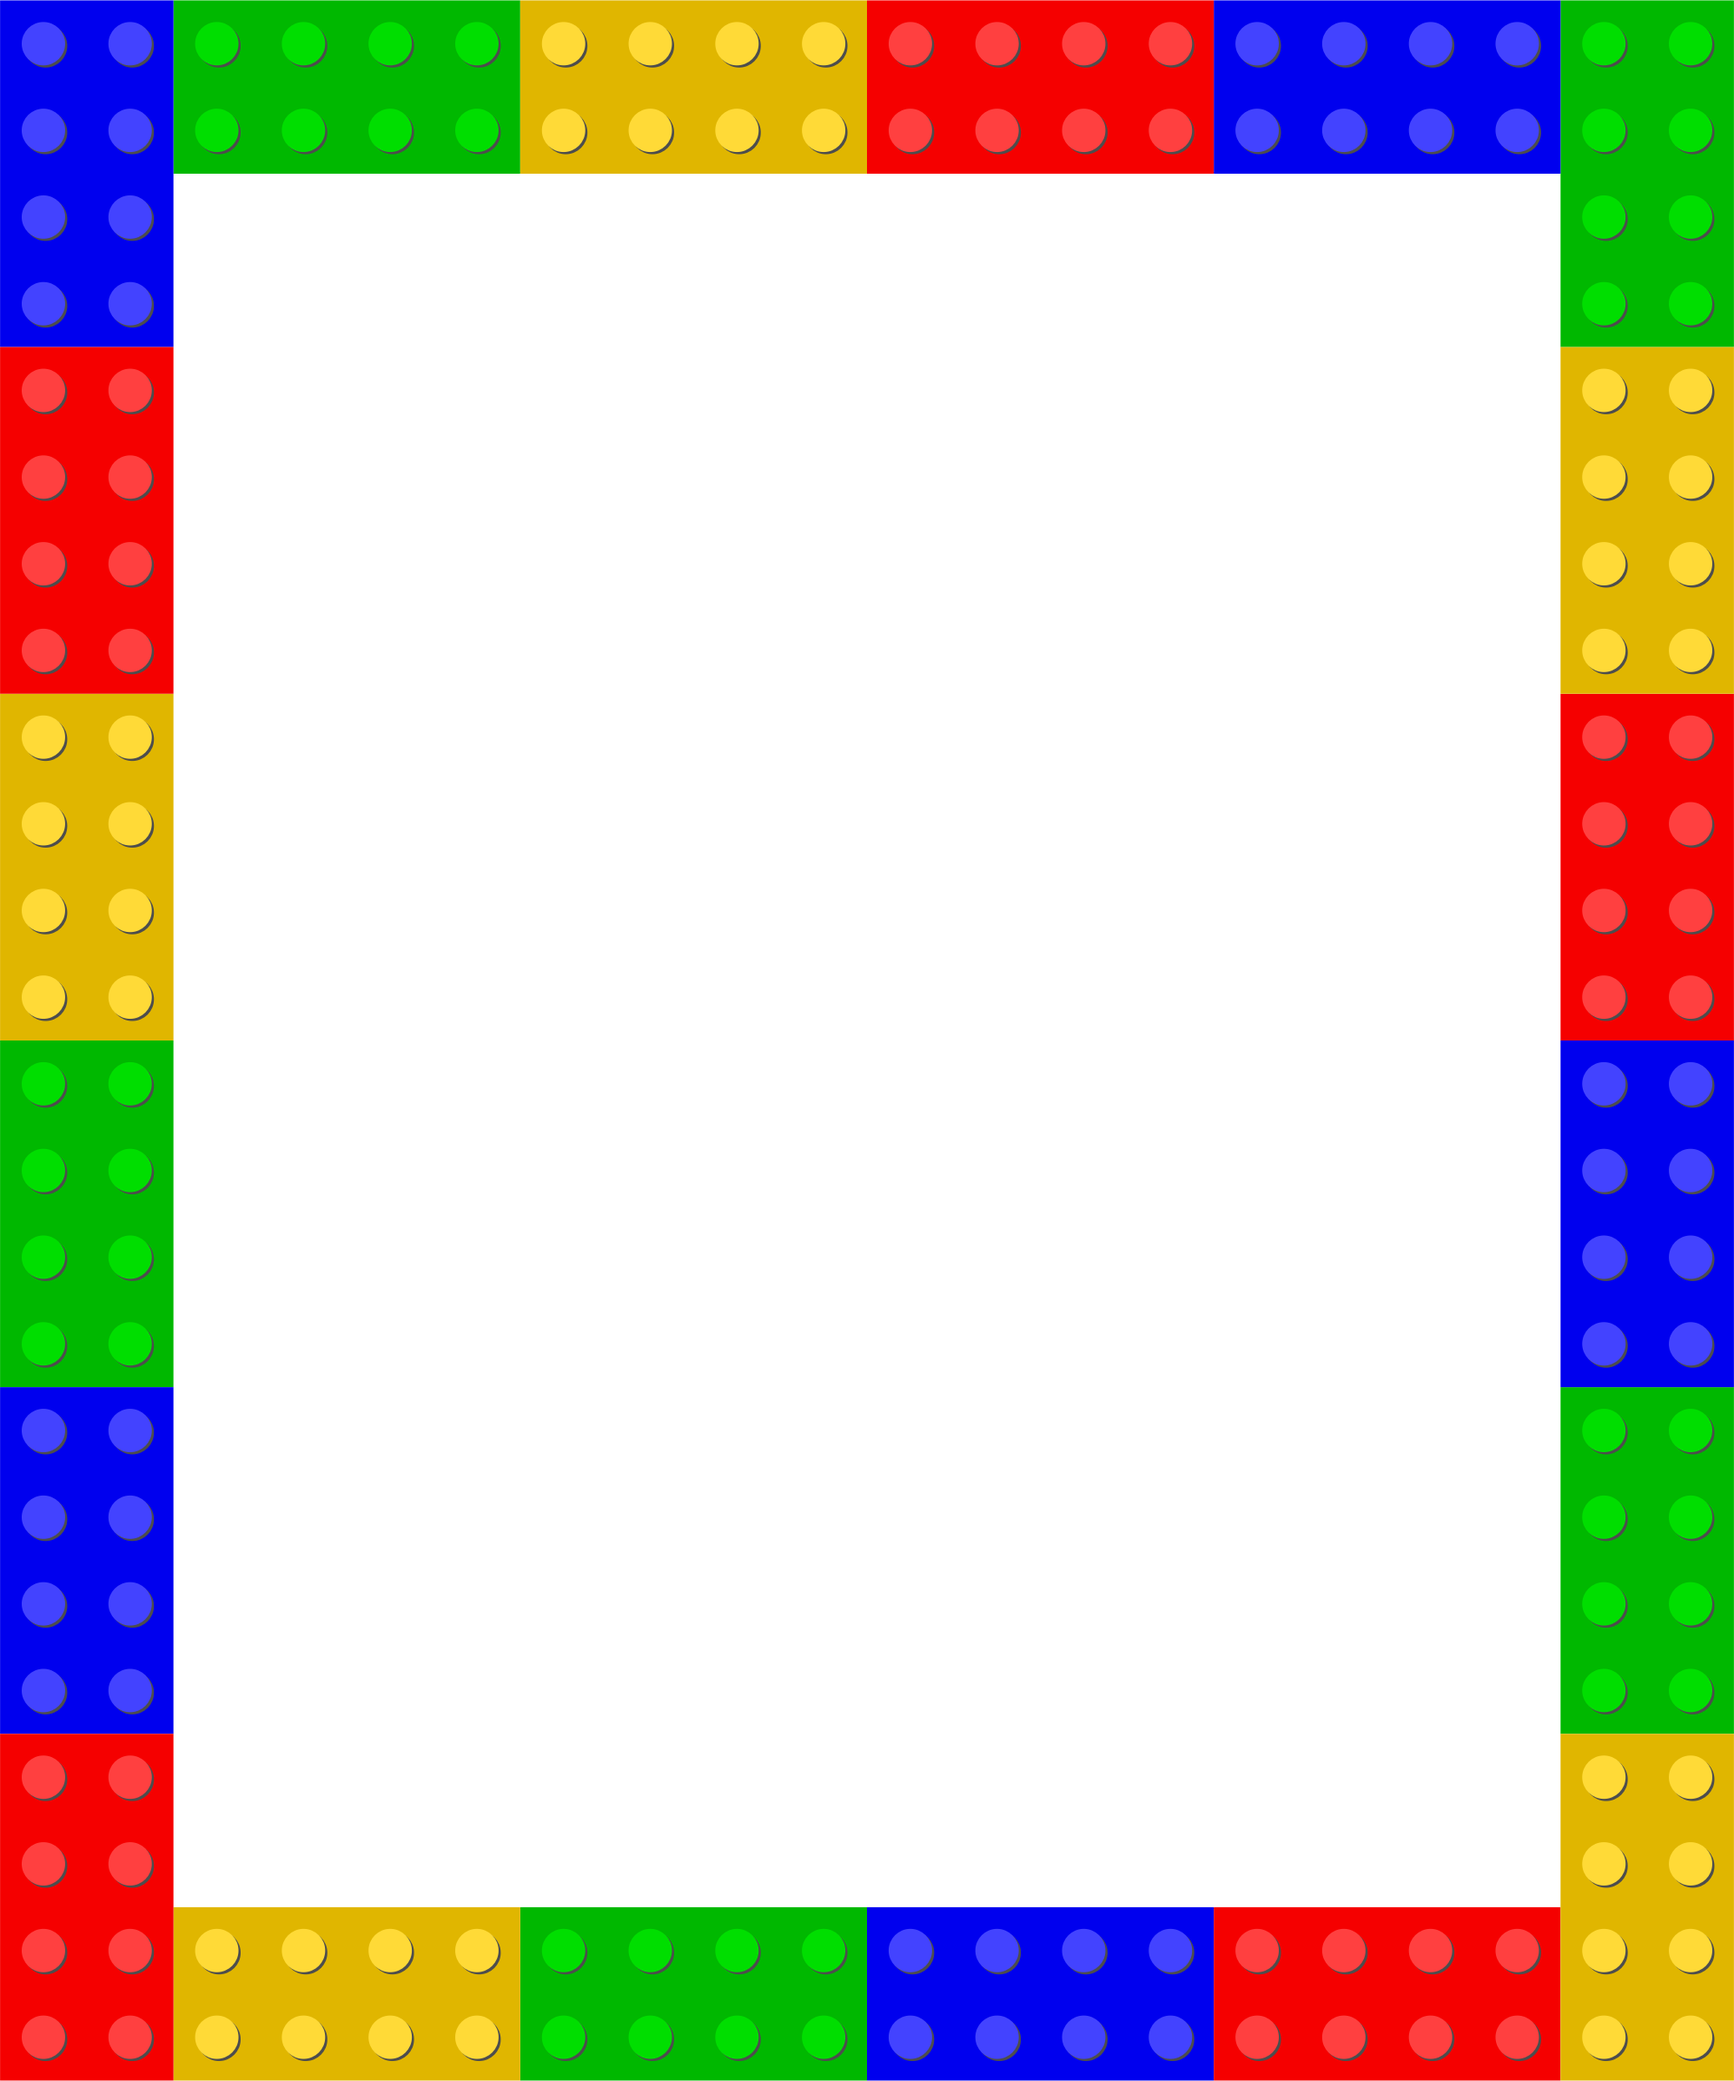
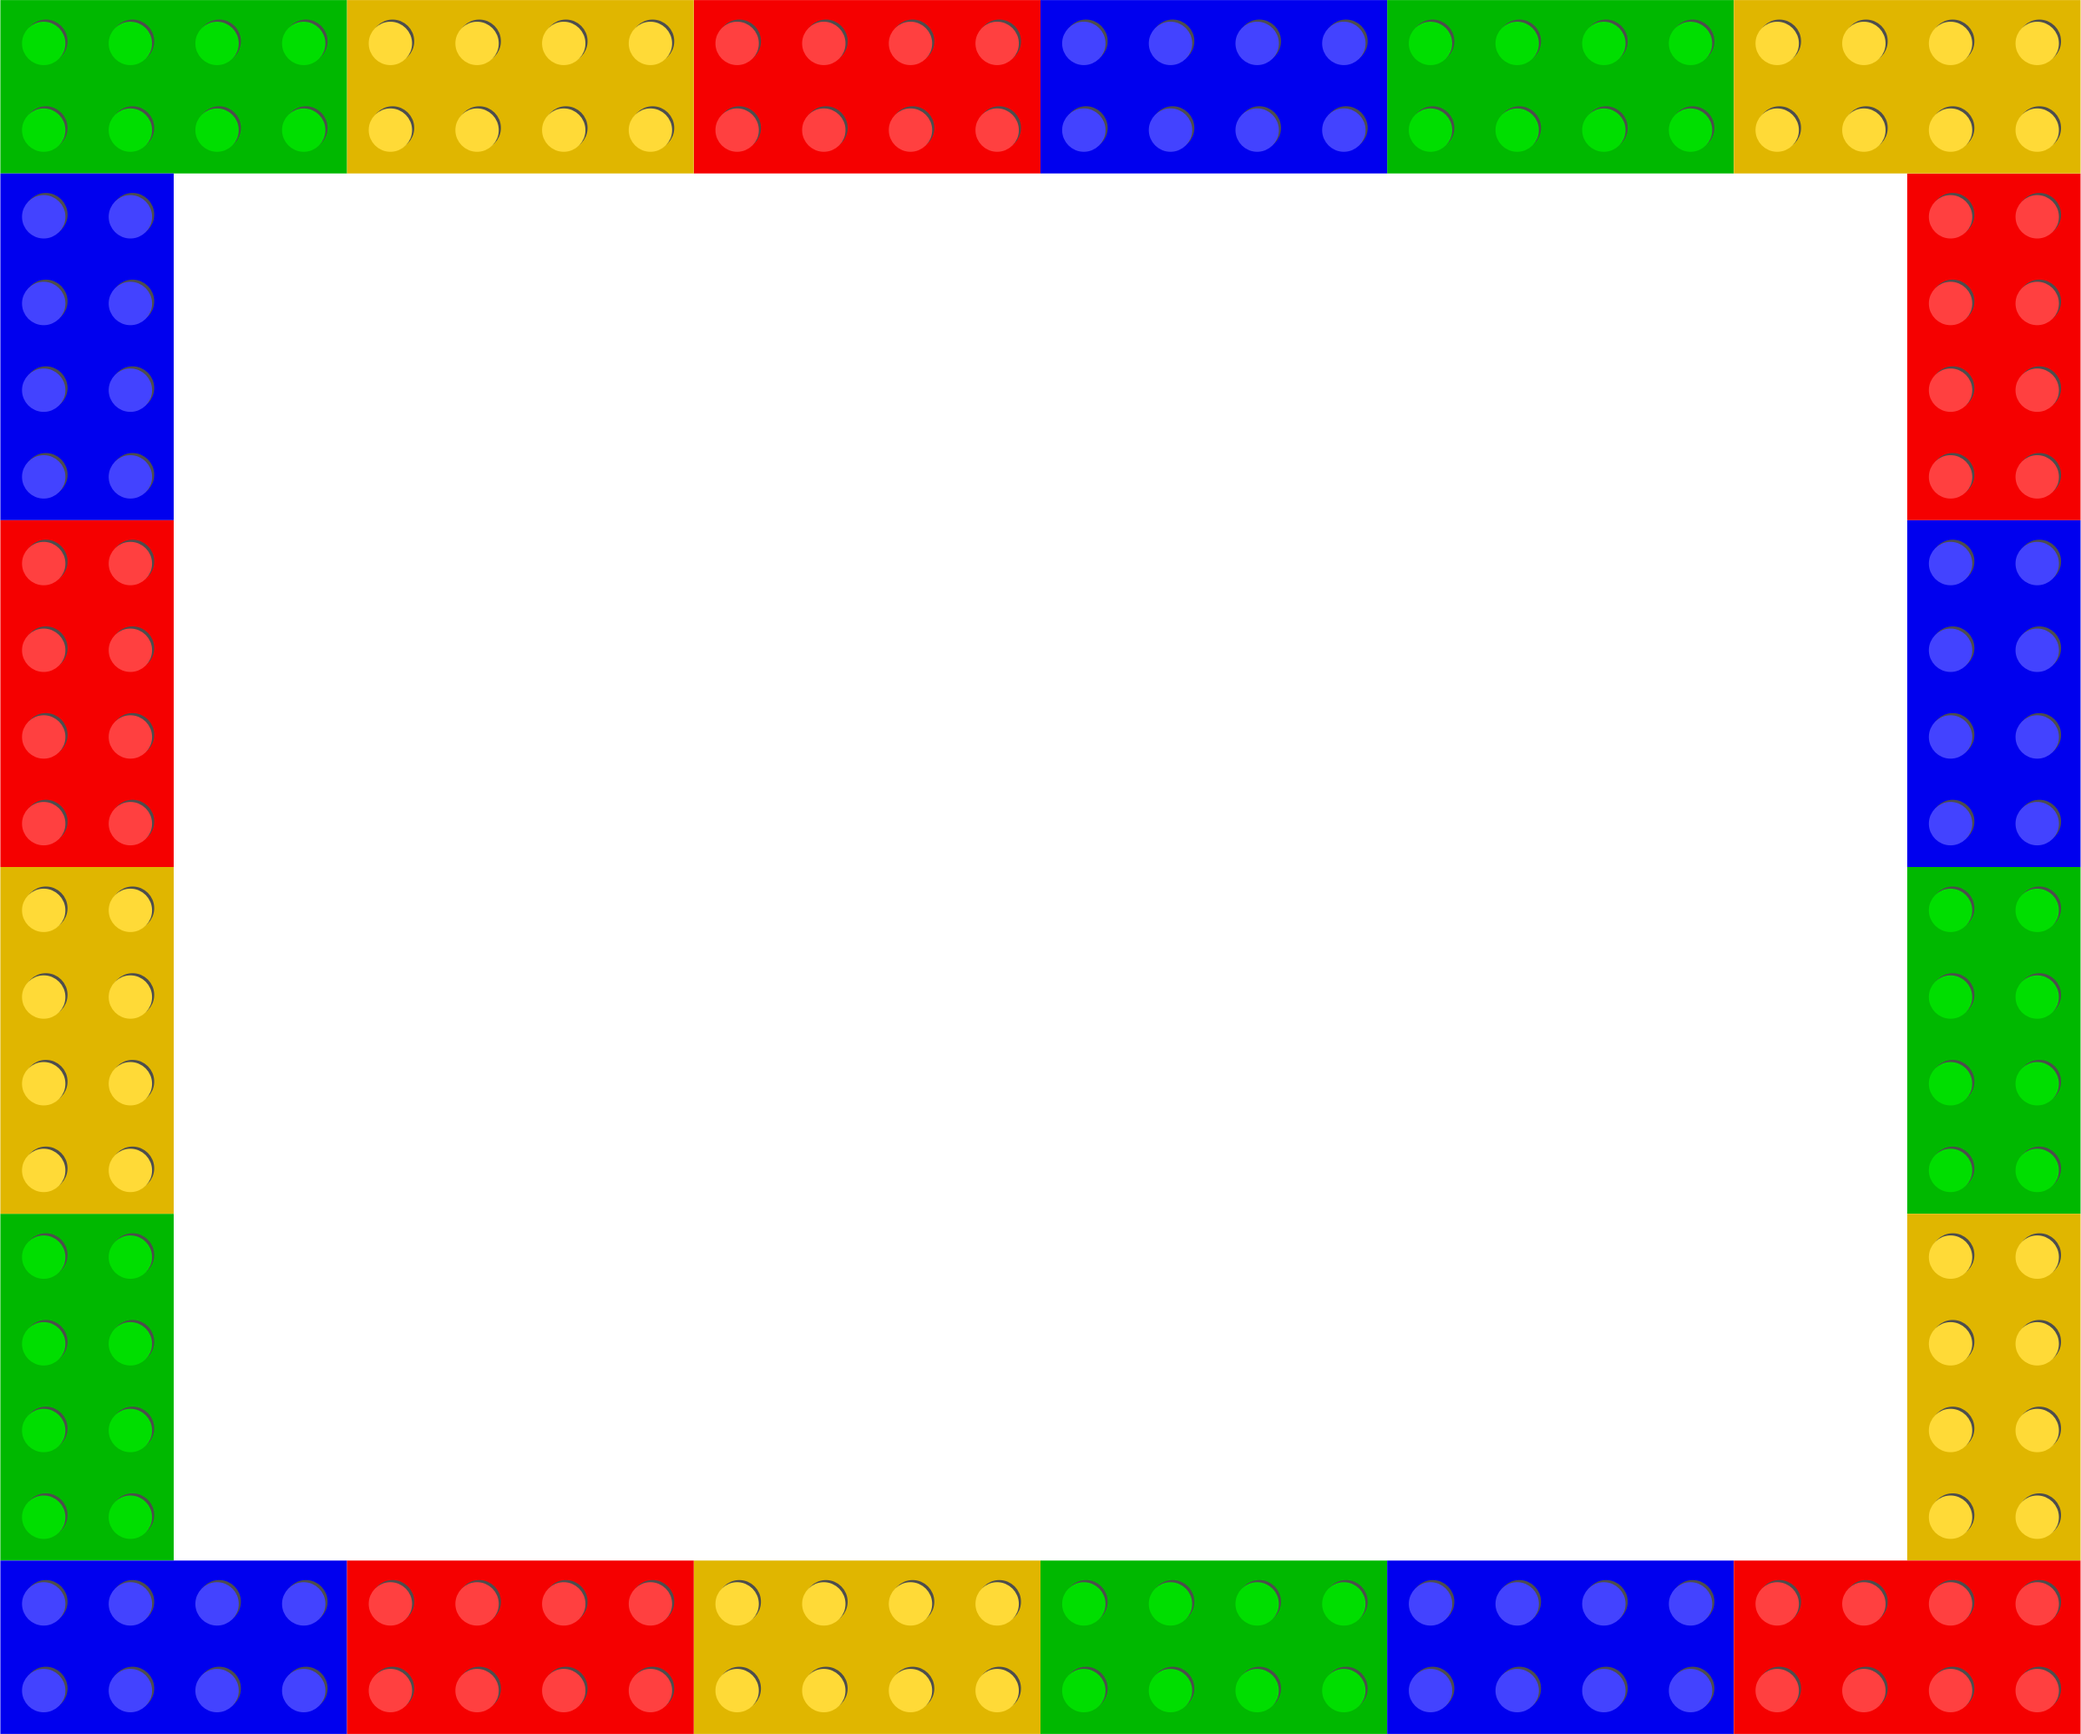
html and javascript updated

diff --git a/index.html b/index.html
@@ -1,0 +1,75 @@
+<!DOCTYPE html>
+<html lang="en">
+
+<head>
+    <meta charset="UTF-8">
+    <meta name="viewport" content="width=device-width, initial-scale=1.0">
+    <meta http-equiv="X-UA-Compatible" content="ie=edge">
+    <link rel="stylesheet" href="./assets/css/style.css">
+    <title>Train Scheduler</title>
+</head>
+
+<body>
+    <div class="jumbotron jumbotron-fluid">
+        <div class="container">
+            <h1 class="display-3">TRAIN SCHEDULER</h1>
+            <p class="lead">t ALL ABOARD! t</p>
+        </div>
+    </div>
+    <div class="row">
+        <div class="col-sm-1"></div>
+        <div class="col-md-10 info" id="results">
+            <h2 id="current">t CURRENT TRAIN SCHEDULE t</h2>
+            <table class="table formDiv">
+                <thead>
+                    <tr>
+                        <th scope="col">TRAIN NAME</th>
+                        <th scope="col">DESTINATION</th>
+                        <th scope="col">FREQUENCY (MIN)</th>
+                        <th scope="col">NEXT ARRIVAL</th>
+                        <th scope="col">MINUTES AWAY</th>
+                    </tr>
+                </thead>
+                <tbody id="trainSchedule">
+                    <tr>
+                        <th></th>
+                    </tr>
+                </tbody>
+            </table>
+        </div>
+        <div class="col-sm-1"></div>
+    </div>
+    <div class="row add">
+        <div class="col-sm-1"></div>
+        <div class="col-md-10 info" id="addTrains">
+            <h2 id="addHeader">t ADD TRAINS t</h2>
+            <div class="formDiv">
+                <div class= "inputDiv">
+                    <label for="Names">Train Name</label>
+                    <input type="text" class="form-control" id="trainname">
+                </div>
+                <div class= "inputDiv">
+                    <label for="Destination">Destination</label>
+                    <input type="text" class="form-control" id="destination">
+                </div>
+                <div class= "inputDiv">
+                    <label for="first_train">First Train Time</label>
+                    <input type="text" class="form-control" id="firstTrain" placeholder="">
+                </div>
+                <div class= "inputDiv">
+                    <label for="frequency">Frequency (min)</label>
+                    <input type="number" class="form-control" id="frequency" placeholder="">
+            </div>
+            <button type="button" class="btn btn-secondary" id="submit">Submit</button>
+            </div>
+        </div>
+        <div class="col-sm-1"></div>
+    </div>
+
+    <script src="https://www.gstatic.com/firebasejs/4.10.1/firebase.js"></script>
+    <script src="https://code.jquery.com/jquery-3.3.1.js" integrity="sha256-2Kok7MbOyxpgUVvAk/HJ2jigOSYS2auK4Pfzbm7uH60=" crossorigin="anonymous"></script>
+    <script src="https://cdn.jsdelivr.net/momentjs/2.12.0/moment.min.js"></script>
+    <script src="./assets/javascript/app.js"></script>
+</body>
+
+</html>

diff --git a/assets/javascript/app.js b/assets/javascript/app.js
@@ -1,0 +1,46 @@
+$(document).ready(function () {
+  // Initialize Firebase
+  var config = {
+    apiKey: "AIzaSyBkQXSwdYrdVjEnx1Yb-TqMgdCxQpxdQh8",
+    authDomain: "trainschedule-172e2.firebaseapp.com",
+    databaseURL: "https://trainschedule-172e2.firebaseio.com",
+    projectId: "trainschedule-172e2",
+    storageBucket: "trainschedule-172e2.appspot.com",
+    messagingSenderId: "236087521437"
+  };
+  firebase.initializeApp(config);
+
+      // Capture Button Click
+      $("#submit").on("click", function (event) {
+        event.preventDefault();
+        // Capture User Inputs and store them into variables
+        var input1 = $("#trainname").val().trim();
+        var input2 = $("#destination").val().trim();
+        var input3 = $("#firstTrain").val().trim();
+        var input4 = $("#frequency").val().trim();
+        var input5 = moment().diff(moment('input3','MM/DD/YYYY'), 'months')
+         console.log(input5)
+        $("#trainname").val("");
+        $("#destination").val("");
+        $("#firstTrain").val("");
+        $("#frequency").val("");
+        database.ref().push({
+            name: input1,
+            role: input2,
+            date: input3,
+            rate: input4,
+            worked: input5,
+            dateAdded: firebase.database.ServerValue.TIMESTAMP
+        });
+        // Output all of the new information into the relevant HTML sections
+        $("#trainSchedule").append("<tr><th>" + input1 + "</th><th>" + input2 + "</th><th>" + input3 + "</th><th>" + input5 + "</th><th>" + input4 + "</th><th>" + input4 + "</th></tr>")
+        database.ref().orderByChild('rate').limitToLast(1).on('child_added', function(snap){
+            console.log(snap.val())
+            })
+        return false
+    })
+
+    database.ref().on("value", function(snap){
+        console.log(snap.val())
+    })
+})

diff --git a/assets/css/style.css b/assets/css/style.css
@@ -1,0 +1,87 @@
+@import url('https://maxcdn.bootstrapcdn.com/bootstrap/4.0.0/css/bootstrap.min.css');
+
+@font-face {
+    font-family: "myfont";
+    src: url("../images/Legothick.ttf");
+}
+
+body {
+    font-family: "myfont";
+    color: white;
+    background-image: url("../images/grey.jpg");
+}
+
+.jumbotron {
+    background-image: url("../images/background.jpg");
+    height: 325px;
+    background-position: center;
+    text-align: center;
+    background-repeat: no-repeat;
+    background-size: cover;
+    overflow: scroll;
+    font-family: "myfont";
+}
+
+.container {
+    background-color: rgba(0, 0, 0, 0.877);
+    width: 650px;
+    padding: 10px;
+    border-radius: 14px;
+}
+
+h1 {
+    margin-bottom: 0px;
+}
+
+.info {
+    border: 10px solid transparent;
+    padding: 15px;
+    -webkit-border-image: url(../images/legoFrame.png) 30 stretch;
+    /* border-image:  url(../images/legoFrame.png) 30 stretch; */
+    background-color: rgba(0, 0, 0, 0.877);
+    align-items: center;
+}
+
+#results {
+    height: 800px;
+}
+
+h2 {
+    margin-top: 75px;
+    margin-bottom: 20px;
+    margin-left: 39%;
+}
+
+#current {
+    margin-left: 30%;
+}
+
+.add {
+    margin-top: 43px;
+    margin-bottom: 100px;
+}
+
+#addTrains {
+    height: 800px;
+}
+
+#addHeader {
+    margin-bottom: 35px;
+}
+
+.formDiv {
+    width: 930px;
+    margin-left: 98px;
+    font-size: 20px;
+    font-family: 'Franklin Gothic Medium', 'Arial Narrow', Arial, sans-serif;
+}
+
+.inputDiv {
+    margin-bottom: 35px;
+}
+
+.btn {
+    float: right;
+    width: 120px;
+    margin-top: 5px;
+}

diff --git a/assets/css/reset.css b/assets/css/reset.css
@@ -1,0 +1,48 @@
+/* http://meyerweb.com/eric/tools/css/reset/ 
+   v2.0 | 20110126
+   License: none (public domain)
+*/
+
+html, body, div, span, applet, object, iframe,
+h1, h2, h3, h4, h5, h6, p, blockquote, pre,
+a, abbr, acronym, address, big, cite, code,
+del, dfn, em, img, ins, kbd, q, s, samp,
+small, strike, strong, sub, sup, tt, var,
+b, u, i, center,
+dl, dt, dd, ol, ul, li,
+fieldset, form, label, legend,
+table, caption, tbody, tfoot, thead, tr, th, td,
+article, aside, canvas, details, embed, 
+figure, figcaption, footer, header, hgroup, 
+menu, nav, output, ruby, section, summary,
+time, mark, audio, video {
+	margin: 0;
+	padding: 0;
+	border: 0;
+	font-size: 100%;
+	font: inherit;
+	vertical-align: baseline;
+}
+/* HTML5 display-role reset for older browsers */
+article, aside, details, figcaption, figure, 
+footer, header, hgroup, menu, nav, section {
+	display: block;
+}
+body {
+	line-height: 1;
+}
+ol, ul {
+	list-style: none;
+}
+blockquote, q {
+	quotes: none;
+}
+blockquote:before, blockquote:after,
+q:before, q:after {
+	content: '';
+	content: none;
+}
+table {
+	border-collapse: collapse;
+	border-spacing: 0;
+}
